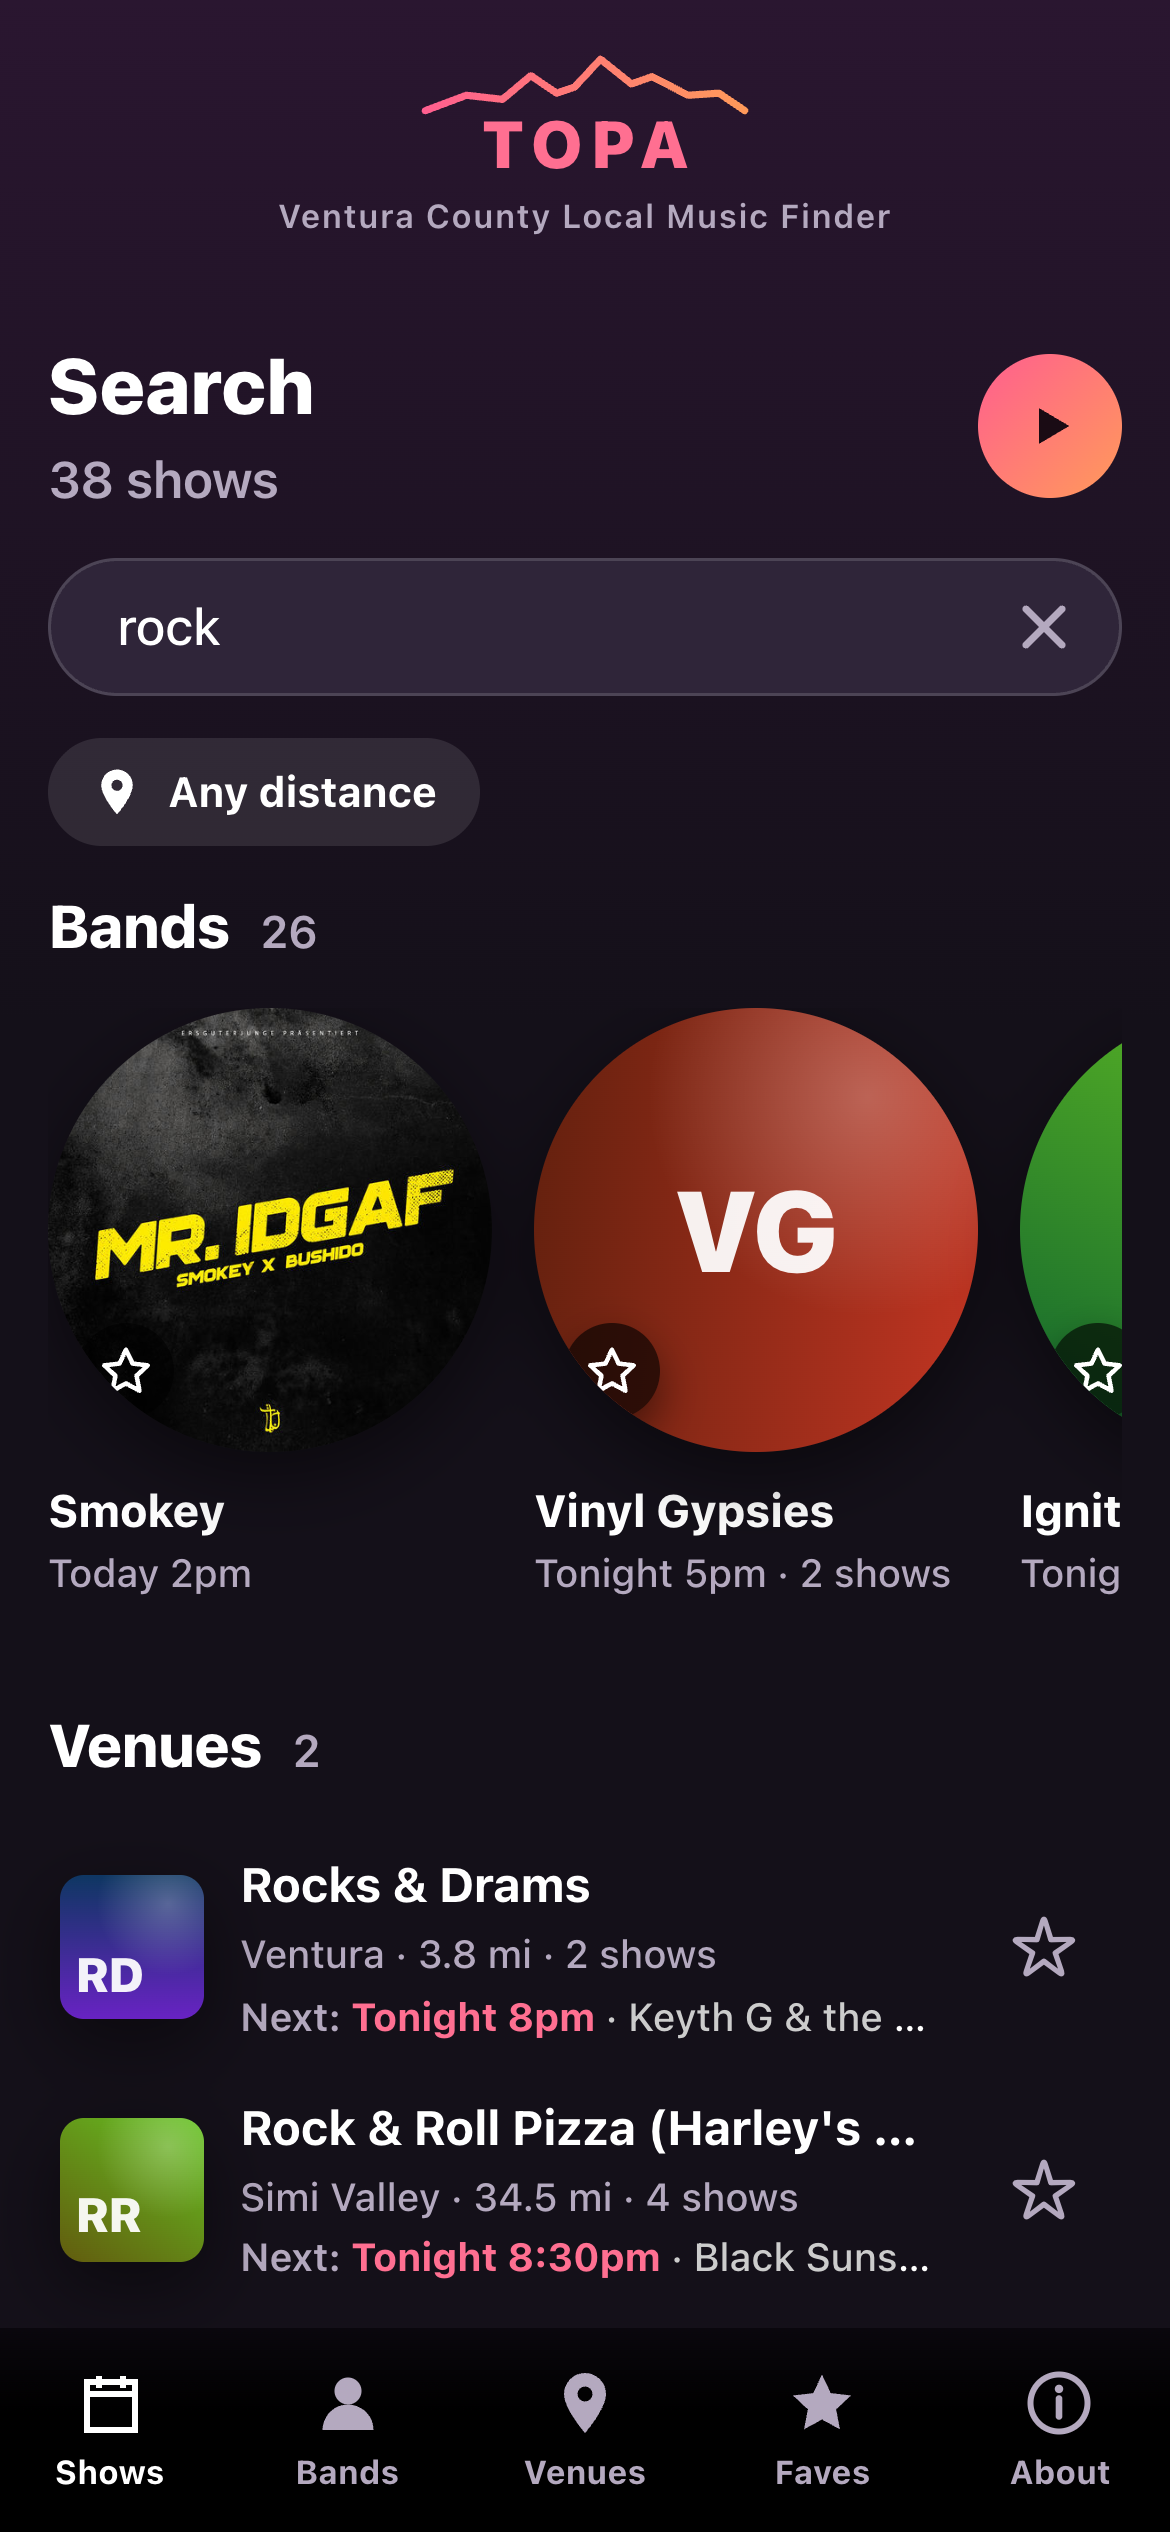
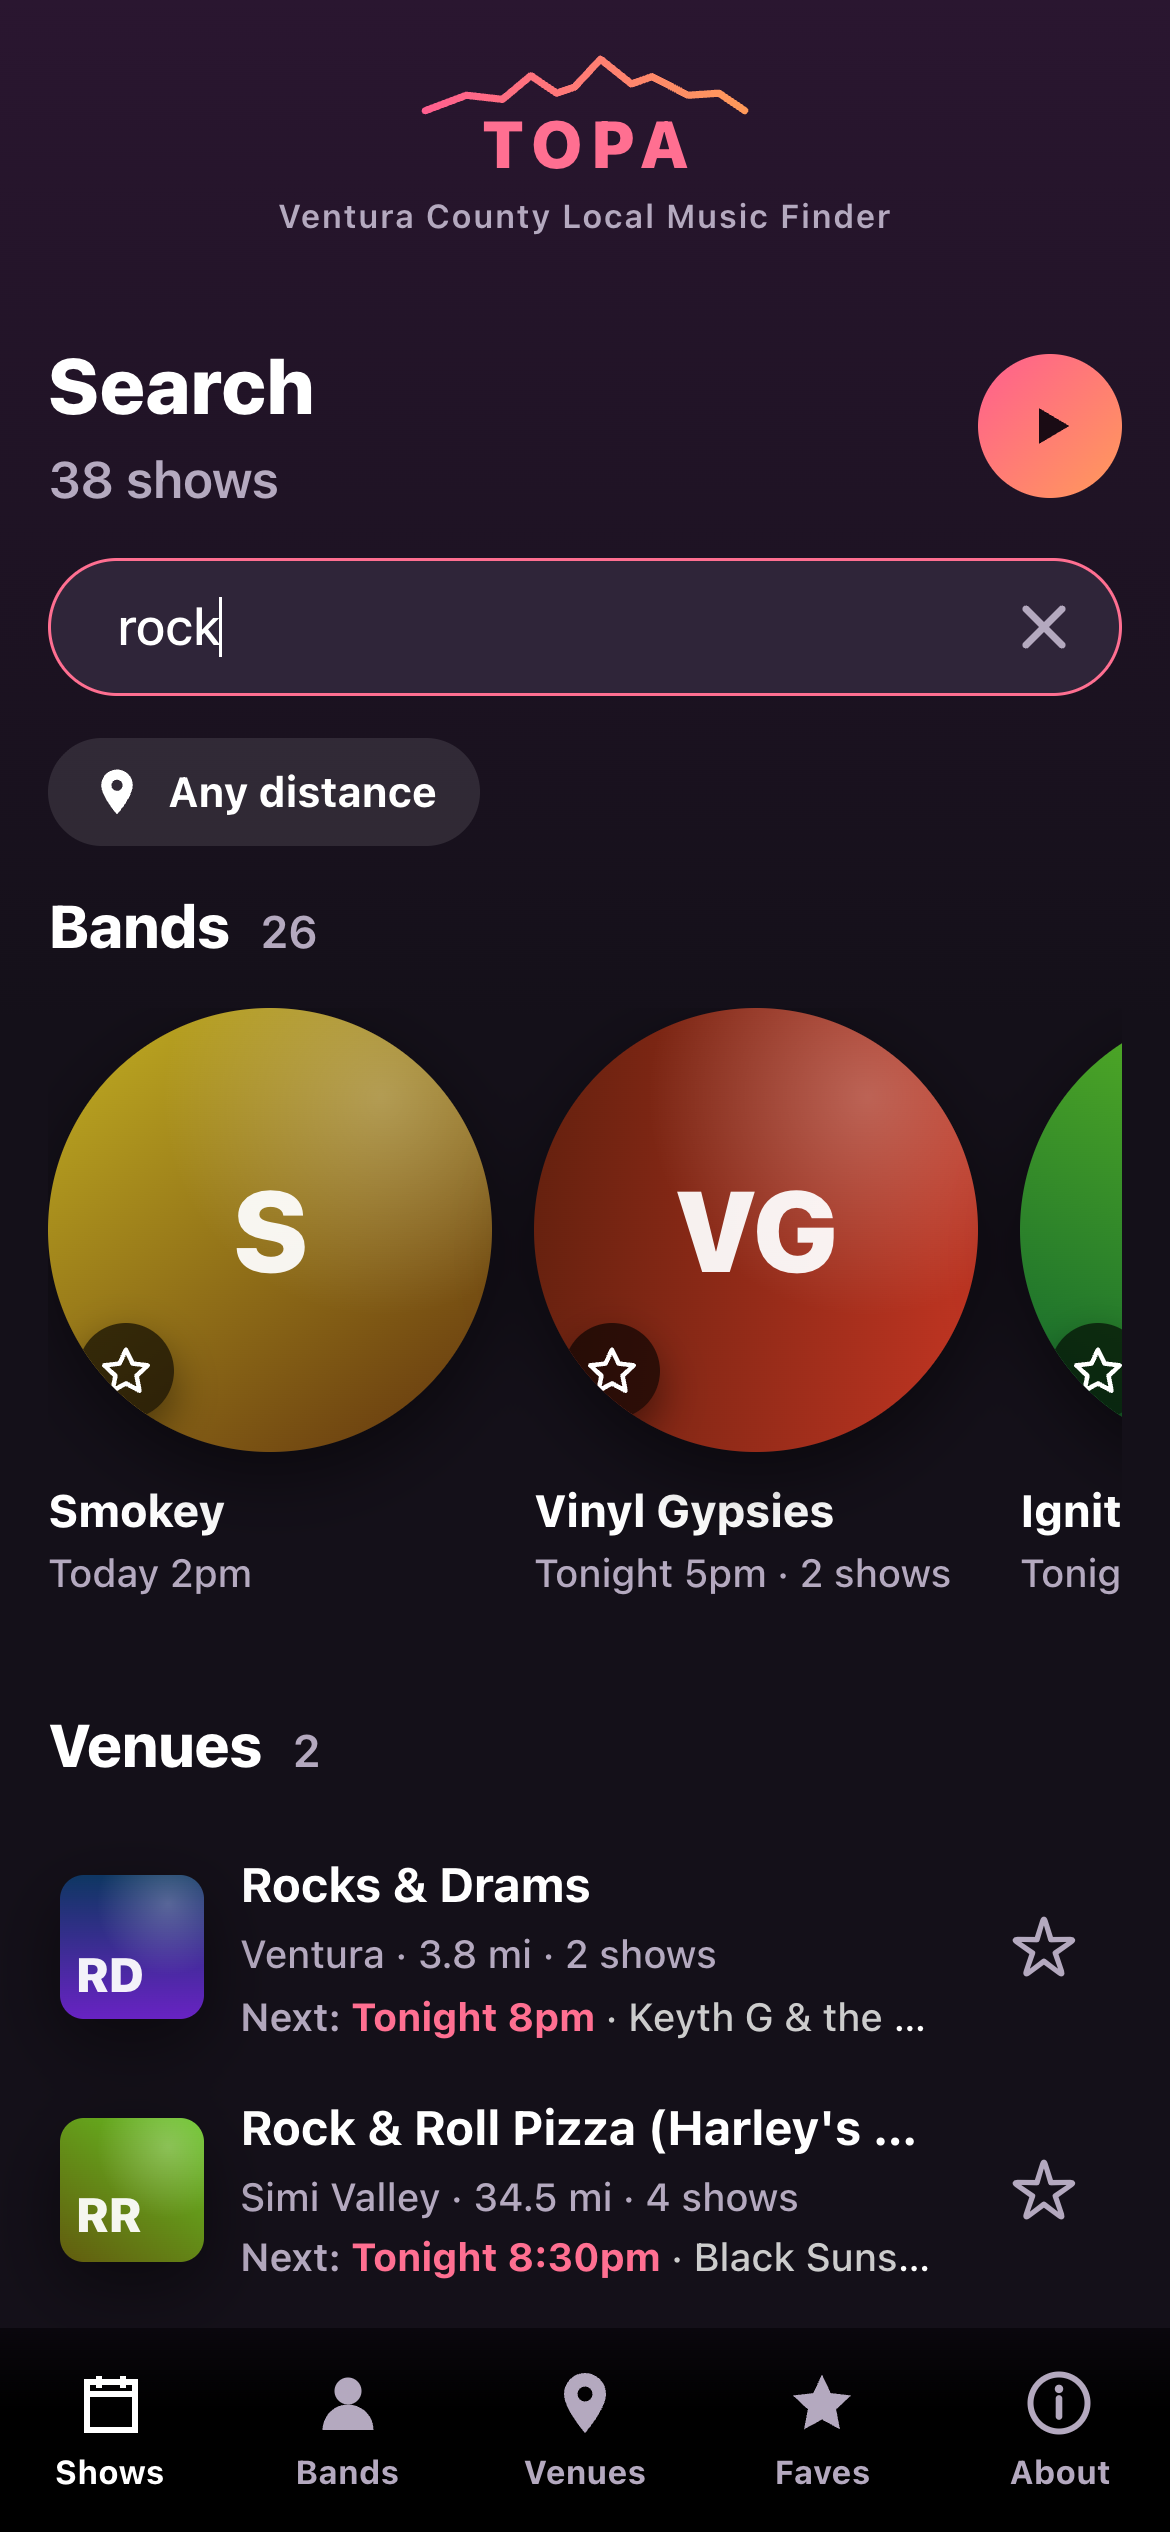
README, LICENSE and screenshots for 1.0.0

Changed region(s): [[0.0308, 0.3744, 0.4308, 0.5928]]

diff --git a/README.md b/README.md
@@ -2,7 +2,7 @@
 
 <h1 align="center">TOPA Local Music Finder</h1>
 
-*A personal project by local music lovers who wanted to find live local music nearby, pick a show fast, and have their Tesla navigate there by voice. The future is now!*
+*Made by local music lovers to find live music nearby and pick a show fast. Bands, fans, and venues add to it, so it keeps getting better.*
 
 **Who's playing locally tonight, and what do they sound like?** TOPA is a live music finder for Ventura County that I built for my Tesla's touchscreen, and then for phones. Open it, see upcoming shows, tap ▶ to hear a band, and go.
 
@@ -22,9 +22,12 @@ More in [`screenshots/`](screenshots/): every page on the Tesla screen (1920×12
 
 - **Today first.** It opens on today's shows ("Today" until 4pm, then "Tonight") with big start times, then lets you pick
   another day, the weekend, or a genre. Each row shows the band, venue, town and distance.
-- **Hear before you go.** Sunset-colored ▶ buttons play 30-second song previews. "Play all" runs through a whole night's lineup like a radio, and the player shows where and when each band is playing.
-- **Bands and venues.** Every band and venue has its own page: dates, lineup, call, website, and directions. The Venues
-  tab is a list showing each venue's town, distance, show count and next show.
+- **Hear before you go.** Sunset-colored ▶ buttons play 30-second song previews from Apple Music. "Play all" runs through a whole night's lineup like a radio, and the player shows where and when each band is playing.
+- **Bands and venues.** Every band and venue has its own page: dates, lineup, call, website, and directions, plus the
+  band's links and photo when it has sent them. The Venues tab lists each venue's town, distance, show count and next show.
+- **Anyone can add a show.** Bands, fans, and venues send shows, band info, and venue photos through short forms
+  (About → Add your show). Each one is checked before it goes live. Shows sent this way get a small **@**; shows from the
+  Ventura Rocks community calendar get a small calendar.
 - **Faves.** Tap any star to fave a band or venue, on a row or right on a band's photo. When a fave is playing on the day
   you're looking at, it's pinned at the top of Shows, and shows at a faved venue are tagged "★ Fave venue". The Faves tab
   switches between your bands and venues.
@@ -88,33 +91,45 @@ Built for glancing at a car screen, then refined for phones:
 
 ## How it works
 
-No backend, no API keys, no cost. It's a static site on GitHub Pages plus a scheduled GitHub Action.
+No backend, no API keys, no cost. It's a static site on GitHub Pages plus GitHub Actions.
 
 ```
-Ventura Rocks calendar (Tockify)
-        │  scripts/fetch_events.py, run by GitHub Actions 3× a day
-        ▼
+Ventura Rocks calendar (Tockify)        Bands, fans, venues
+        │                                 │  GitHub form → bot checks it → pull request → approved
+        │                                 ▼
+        │                            community/ (one small file per show, band or venue)
+        │                                 │
+        └──── scripts/fetch_events.py, 3× a day and on every approval ────┘
+                          ▼
    events.json  ──────────►  index.html + app.js (one page, no build step)
   (facts only)               ├─ loads events.json from the same site
-        │                    ├─ Deezer API (JSONP): artist photos + 30s previews
+        │                    ├─ Apple Music (iTunes Search API): 30s previews + album art
         │                    └─ sw.js: offline cache
    llms.txt  ─────────────►  AI assistants (Grok in the car, others)
   (plain English)
 ```
 
-1. **Listings.** [`scripts/fetch_events.py`](scripts/fetch_events.py) (Python standard library only) reads the calendar's public
-   `monthly` and `upcoming` pages, keeps only facts (band, time, venue, address, town, tags, link), merges and de-duplicates them,
-   writes every time in Pacific with a plain-English `when` ("Sat Oct 24, 7:00 PM") so people and AI assistants read it right,
-   and writes `events.json`, plus `llms.txt`: every upcoming show by day in plain English, with addresses and links, and a
-   note asking assistants to credit TOPA and Ventura Rocks. If the page won't parse, it exits with an error and leaves the old file alone.
-2. **Schedule.** [`.github/workflows/update-events.yml`](.github/workflows/update-events.yml) runs it around 7am, noon and 4pm Pacific
-   and commits `events.json` and `llms.txt` only when they changed (`llms.txt` also drops past days, so it changes at most
-   once a day otherwise).
-3. **The app.** `index.html` shows the last saved listings right away (so it opens instantly and works offline), then swaps in the
+1. **Listings.** [`scripts/fetch_events.py`](scripts/fetch_events.py) (Python standard library only) reads the Ventura Rocks
+   calendar's public `monthly` and `upcoming` pages and the shows people sent to TOPA (`community/`), keeps only facts (band,
+   time, venue, address, town, tags, link), and merges them. When both list the same show (same venue, day and band), the one
+   sent to TOPA wins. It writes every time in Pacific with a plain-English `when` ("Sat Oct 24, 7:00 PM"), then writes
+   `events.json` and `llms.txt`: every upcoming show by day in plain English, with addresses and links. If the calendar won't
+   parse, it exits with an error and leaves the old file alone.
+2. **Sending a show.** Each form in [`.github/ISSUE_TEMPLATE`](.github/ISSUE_TEMPLATE) opens a GitHub issue.
+   [`submission.yml`](.github/workflows/submission.yml) checks it with
+   [`scripts/submissions.py`](scripts/submissions.py) and either comments with what to fix or opens a pull request adding
+   one file under `community/`. Updates to a band or venue change only what's filled in, and the pull request lists just
+   those changes. Photos are shrunk and stripped of location data ([`scripts/photos.py`](scripts/photos.py)). Merging
+   publishes it.
+3. **Schedule.** [`.github/workflows/update-events.yml`](.github/workflows/update-events.yml) runs the fetch around 7am, noon
+   and 4pm Pacific, and right after a submission is merged. It commits `events.json` and `llms.txt` only when they changed,
+   and keeps the forms' venue lists current ([`scripts/forms.py`](scripts/forms.py)).
+4. **The app.** `index.html` shows the last saved listings right away (so it opens instantly and works offline), then swaps in the
    latest `events.json`. If the scheduled fetch ever fails, the old file stays in place and the "Updated" date stops moving.
-4. **Previews.** The app matches each band against Deezer's free API in the background, soonest shows first. A band only gets a
-   ▶ when the name matches exactly and there are playable clips. Cover and tribute acts and generic listings ("Open Mic") are skipped,
-   because they nearly always match the wrong artist. Matches are remembered on the device for 14 days.
+5. **Previews.** The app looks up each band on Apple Music's free search API in the background, soonest shows and what's on
+   screen first (Apple allows about 20 lookups a minute). A band only gets a ▶ when the name matches exactly and there are
+   playable clips. Cover and tribute acts and generic listings ("Open Mic") are skipped. A band can set the right Apple Music
+   artist, or turn previews off, through its band form. Matches are remembered on the device for 14 days.
 
 ## Run it locally
 
@@ -134,14 +149,15 @@ Two address-bar switches help with testing: `?tesla=1` turns on the car-only voi
 ## Tests
 
 ```sh
-npm install   # once; the only dependency is for testing (puppeteer-core)
-npm test
+npm install                          # once; the only dependency is for testing (puppeteer-core)
+npm test                             # the app, in headless Chrome
+python3 -m unittest discover tests   # forms, merging sources
 ```
 
 [`tests/app.test.mjs`](tests/app.test.mjs) opens the real app in headless Chrome and uses it like a person would: day and
 genre chips, search, starring bands and venues, the Faves tabs, opening a show and going back, the Tesla-only voice hint,
 and the phone layout. Each test gets a fresh browser session. Runs are repeatable: listings come from a saved copy
-([`tests/fixtures/events.json`](tests/fixtures/events.json)), the clock is pinned, and Deezer and visit counting are
+([`tests/fixtures/events.json`](tests/fixtures/events.json)), the clock is pinned, and Apple Music and visit counting are
 blocked. It uses your installed Chrome, or set `CHROME_PATH`.
 
 [`.github/workflows/test.yml`](.github/workflows/test.yml) runs the same tests on GitHub for every code change, so each
@@ -157,21 +173,30 @@ commit gets a ✓ or ✗ before it's tagged as a release.
 | `styles.css` | All styles; phone layout in the `max-width: 700px` block at the end |
 | `events.json` | Current listings, written by the fetch script |
 | `llms.txt` | The same listings in plain English for AI assistants, also written by the fetch script |
-| `scripts/fetch_events.py` | Pulls and cleans the calendar |
-| `.github/workflows/update-events.yml` | Runs the fetch on a schedule |
+| `scripts/fetch_events.py` | Pulls the calendar, merges in the shows sent to TOPA, writes `events.json` and `llms.txt` |
+| `scripts/community.py` | Reads and checks the shows, bands and venues people send |
+| `scripts/submissions.py` | Turns a filled-in form into a file for a pull request |
+| `scripts/forms.py` | Keeps the forms' venue lists current |
+| `scripts/photos.py` | Shrinks band and venue photos |
+| `community/` | Shows, bands and venues people sent, one file each |
+| `.github/ISSUE_TEMPLATE/` | The four forms: a show, a weekly show, a band, a venue |
+| `.github/workflows/submission.yml` | Checks each form and opens the pull request |
+| `.github/workflows/update-events.yml` | Runs the fetch on a schedule and after each approval |
 | `.github/workflows/test.yml` | Runs the tests on every code change |
 | `sw.js`, `manifest.json`, `icon-*.png` | Offline support and install icons |
 | `screenshots/` | Tesla and phone screenshots |
 | `.prettierrc.json` | Code formatting settings ([Prettier](https://prettier.io)) |
-| `tests/`, `package.json` | Browser tests (`npm test`) and their saved listings |
+| `tests/`, `package.json` | Browser tests (`npm test`), Python tests, and saved listings |
 | `LICENSE` | All rights reserved; what is and isn't covered |
 
 ## Credits
 
-- **Show listings** come from the [Ventura Rocks](https://www.venturarocks.com) public calendar.
+- **Show listings** come from the [Ventura Rocks](https://www.venturarocks.com) community calendar and from the bands, fans,
+  and venues who send them to TOPA.
 - **Visit counts** come from [GoatCounter](https://www.goatcounter.com): anonymous, no cookies, nothing personal.
-- **Artist photos and previews** come from [Deezer](https://www.deezer.com) through its public API.
+- **Previews and album art** come from [Apple Music](https://music.apple.com) through its public search API. Band and venue
+  photos are sent by the bands and venues themselves.
 
 ## License
 
-Copyright 2026 [Automatous](https://github.com/automatous-io). All rights reserved. The code is public to read as a portfolio piece, not to reuse; see [LICENSE](LICENSE). All show listings are from the public Ventura Rocks calendar; artist photos and previews are from Deezer.
+Copyright 2026 [Automatous](https://github.com/automatous-io). All rights reserved. The code is public to read as a portfolio piece, not to reuse; see [LICENSE](LICENSE). Show listings are from the Ventura Rocks community calendar and from bands, fans, and venues; previews and album art are from Apple Music.
